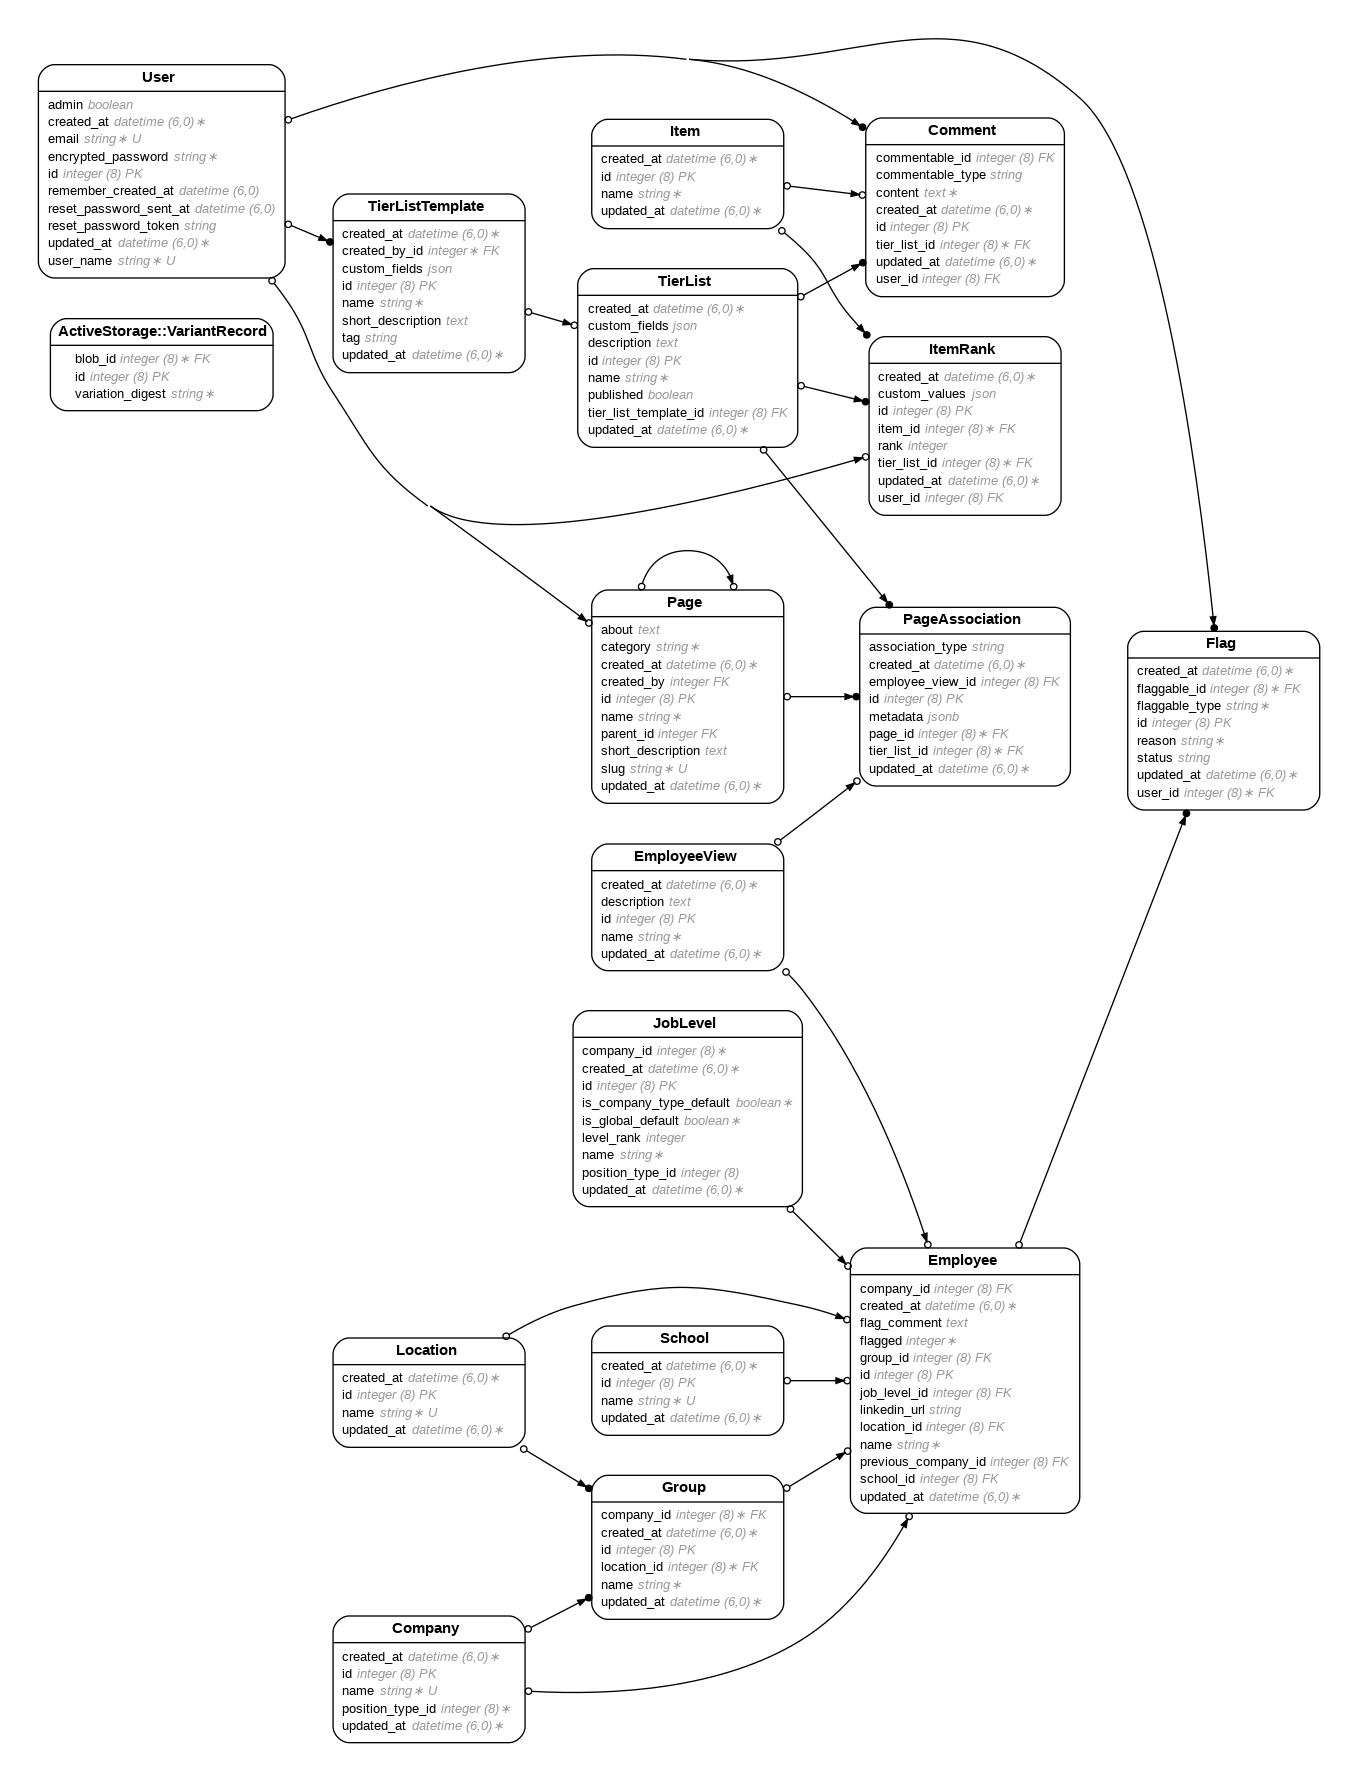
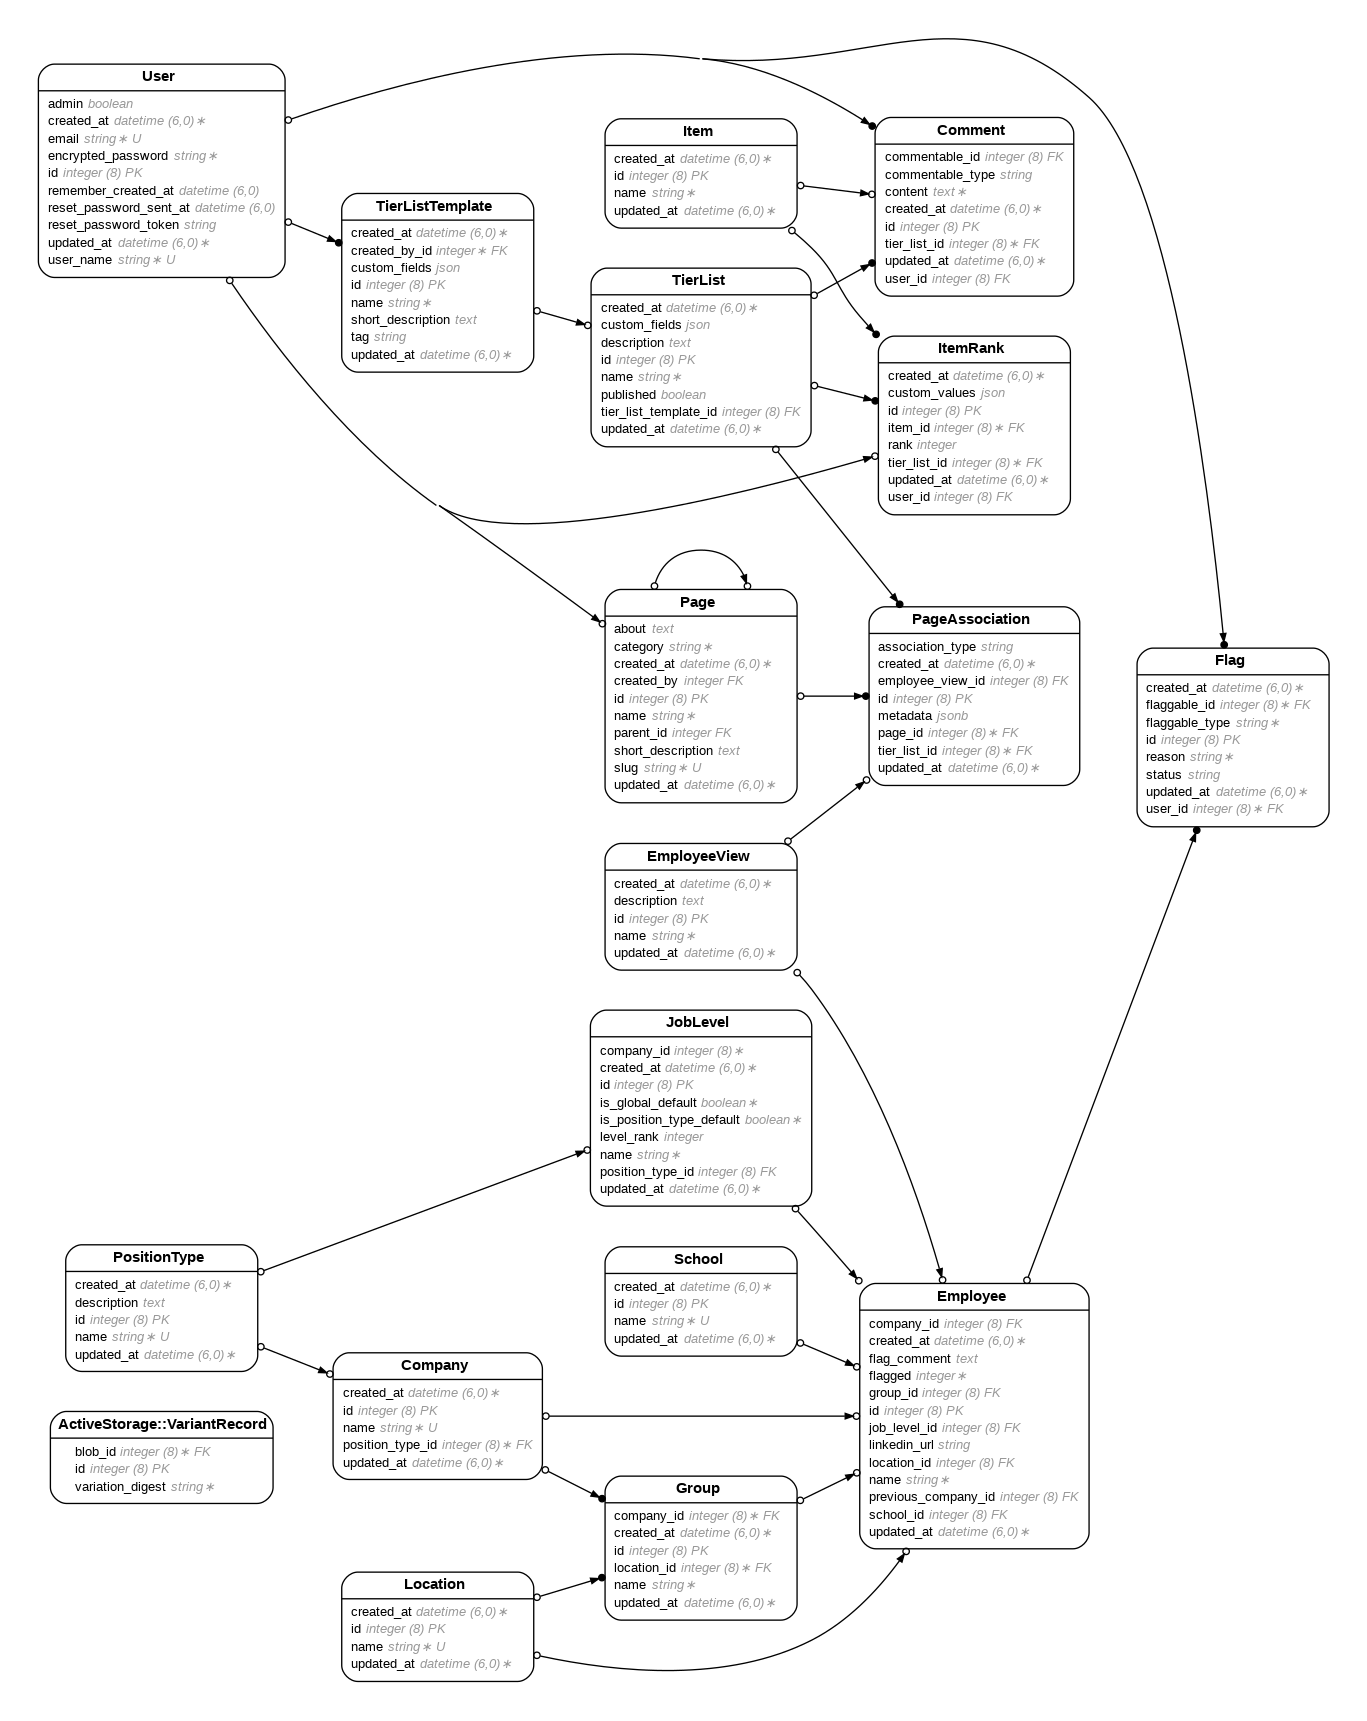
Updated back end and forms

diff --git a/app/controllers/admin/schools_controller.rb b/app/controllers/admin/schools_controller.rb
@@ -1,0 +1,53 @@
+class Admin::SchoolsController < ApplicationController
+  before_action :authenticate_user!
+  before_action :authorize_admin!
+  before_action :set_school, only: [:edit, :update, :destroy]
+
+  # List all schools
+  def index
+    @schools = School.all.order(:name)
+  end
+
+  # Display form for new school
+  def new
+    @school = School.new
+  end
+
+  # Create a new school
+  def create
+    @school = School.new(school_params)
+    if @school.save
+      redirect_to admin_schools_path, notice: 'School created successfully.'
+    else
+      render :new
+    end
+  end
+
+  # Edit existing school
+  def edit; end
+
+  # Update school
+  def update
+    if @school.update(school_params)
+      redirect_to admin_schools_path, notice: 'School updated successfully.'
+    else
+      render :edit
+    end
+  end
+
+  # Delete school
+  def destroy
+    @school.destroy
+    redirect_to admin_schools_path, alert: 'School deleted.'
+  end
+
+  private
+
+  def set_school
+    @school = School.find(params[:id])
+  end
+
+  def school_params
+    params.require(:school).permit(:name)
+  end
+end

diff --git a/app/models/job_level.rb b/app/models/job_level.rb
@@ -2,15 +2,15 @@
 #
 # Table name: job_levels
 #
-#  id                      :bigint           not null, primary key
-#  is_company_type_default :boolean          default(FALSE), not null
-#  is_global_default       :boolean          default(FALSE), not null
-#  level_rank              :integer
-#  name                    :string
-#  created_at              :datetime         not null
-#  updated_at              :datetime         not null
-#  company_id              :bigint           not null
-#  position_type_id        :bigint
+#  id                       :bigint           not null, primary key
+#  is_global_default        :boolean          default(FALSE), not null
+#  is_position_type_default :boolean          default(FALSE), not null
+#  level_rank               :integer
+#  name                     :string
+#  created_at               :datetime         not null
+#  updated_at               :datetime         not null
+#  company_id               :bigint           not null
+#  position_type_id         :bigint
 #
 # Indexes
 #

diff --git a/db/schema.rb b/db/schema.rb
@@ -10,7 +10,7 @@
 #
 # It's strongly recommended that you check this file into your version control system.
 
-ActiveRecord::Schema[7.1].define(version: 2025_01_07_192050) do
+ActiveRecord::Schema[7.1].define(version: 2025_01_07_220510) do
   # These are extensions that must be enabled in order to support this database
   enable_extension "plpgsql"
 
@@ -142,7 +142,7 @@ ActiveRecord::Schema[7.1].define(version: 2025_01_07_192050) do
     t.datetime "updated_at", null: false
     t.integer "level_rank"
     t.boolean "is_global_default", default: false, null: false
-    t.boolean "is_company_type_default", default: false, null: false
+    t.boolean "is_position_type_default", default: false, null: false
     t.bigint "position_type_id"
     t.index ["company_id"], name: "index_job_levels_on_company_id"
     t.index ["name", "company_id", "position_type_id"], name: "index_job_levels_on_name_and_company_and_type", unique: true

diff --git a/db/migrate/20250107220510_rename_is_company_type_default_to_is_position_type_default_in_job_levels.rb b/db/migrate/20250107220510_rename_is_company_type_default_to_is_position_type_default_in_job_levels.rb
@@ -1,0 +1,6 @@
+class RenameIsCompanyTypeDefaultToIsPositionTypeDefaultInJobLevels < ActiveRecord::Migration[7.1]
+  def change
+    rename_column :job_levels, :is_company_type_default, :is_position_type_default
+  end
+end
+

diff --git a/config/routes.rb b/config/routes.rb
@@ -46,6 +46,7 @@ Rails.application.routes.draw do
     resources :companies
     resources :position_types
     resources :locations
+    resources :schools
   end
 
   # Redirect invalid /users route to /users/sign_up
